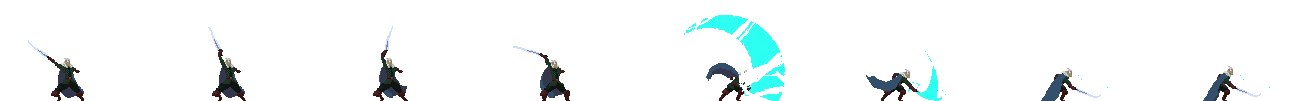
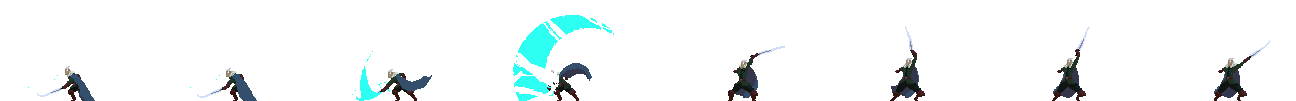
add attack sprites

diff --git a/js files/app.js b/js files/app.js
@@ -12,7 +12,9 @@ jumpR.src = '../assets/jump.png';
 const jumpL = new Image();
 jumpL.src = '../assets/jumpL.png';
 const attack1R = new Image();
-attack1R.src = '../assets/Attack4.png'
+attack1R.src = '../assets/Attack3L.png'
+const attack1L = new Image();
+attack1L.src = '../assets/Attack4.png'
 const footstep = new Audio();
 footstep.src = '../assets/footstep.wav';
 
@@ -61,6 +63,8 @@ class Player {
         right: createImg(attack1R),
         cropWidth: 162,
         frameCount: 6,
+
+        left: createImg(attack1L),
       }
     };
 
@@ -106,45 +110,34 @@ class Player {
       this.currentframeCount = this.sprites.jump.frameCount;
       
 
-    } else if (this.velocity.x !== 0) {
-      this.direction = this.velocity.x < 0 ? 'left' : 'right';
-      this.currentSprite = this.direction === 'left' ? this.sprites.run.left : this.sprites.run.right;
-      this.currentCropWidth = this.sprites.run.cropWidth;
-      this.currentframeCount = this.sprites.run.frameCount;
-    } else {
-      this.currentSprite = this.direction === 'left' ? this.sprites.stand.left : this.sprites.stand.right;
-      this.currentCropWidth = this.sprites.stand.cropWidth;
-
-      this.currentframeCount = this.sprites.stand.frameCount;
-
-    }
-
-
-
-    if (this.isAttacking) {
-      this.currentSprite = this.sprites.attack.right;
-      this.currentCropHeight = 101;
+    } 
+    else if (this.isAttacking) {
+      this.currentSprite = this.direction === 'left' ? this.sprites.attack.left : this.sprites.attack.right; 
+           this.currentCropHeight = 101;
       this.currentCropWidth = this.sprites.attack.cropWidth;
 
       this.width = 133;
       this.height = 101;
-    } else if (this.velocity.x !== 0) {
+    } 
+
+    else if (this.velocity.x !== 0) {
       this.direction = this.velocity.x < 0 ? 'left' : 'right';
       this.currentSprite = this.direction === 'left' ? this.sprites.run.left : this.sprites.run.right;
       this.currentCropWidth = this.sprites.run.cropWidth;
-
-
       this.currentframeCount = this.sprites.run.frameCount;
     } else {
       this.currentSprite = this.direction === 'left' ? this.sprites.stand.left : this.sprites.stand.right;
       this.currentCropWidth = this.sprites.stand.cropWidth;
 
-
-
-
       this.currentframeCount = this.sprites.stand.frameCount;
 
     }
+
+
+
+    
+    
+
 
     this.draw();
   }
@@ -197,7 +190,7 @@ function keyup(e) {
       player1.velocity.x = 0;
       break;
     case 87:
-      // player1.isJumping = false;
+     
       break;
 
     case 81:
